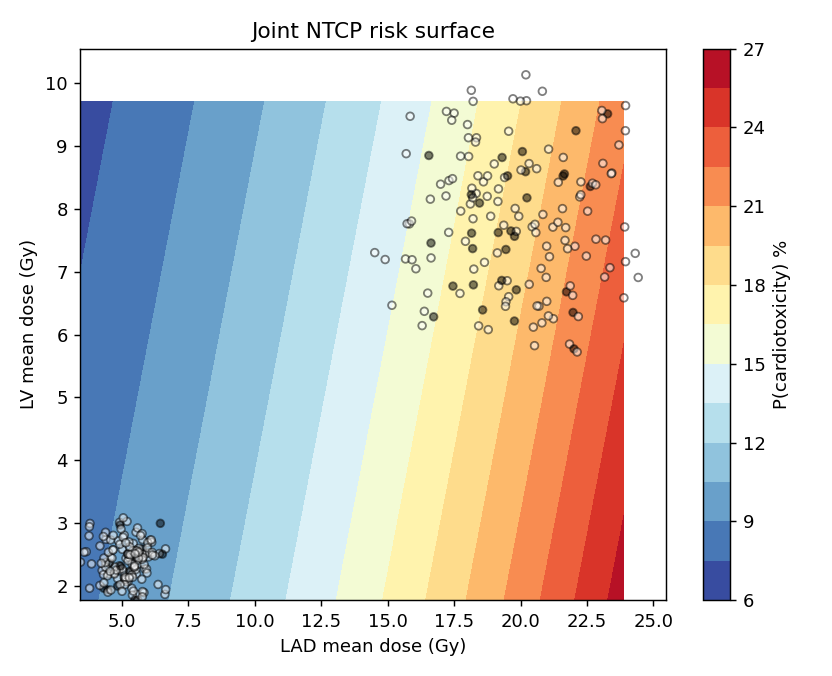
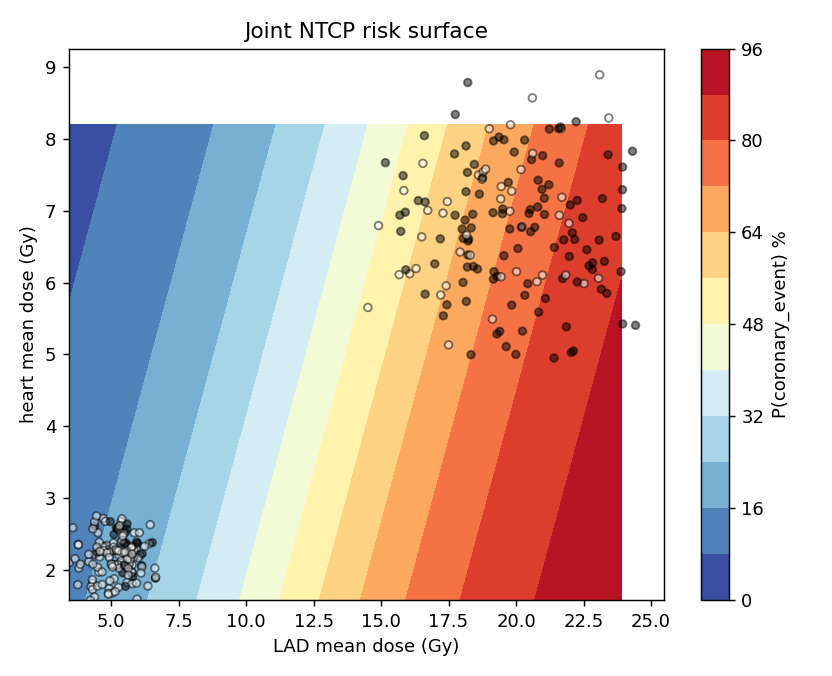
Add figure generation: causal-mediation, PLS VIP, and summary dashboard
- make_figures.py: builds causal_mediation_effects.png (NDE/NIE/TE decomposition
  + mediated-share vs Baron-Kenny), pls_vip.png (top VIP predictors colored by
  substructure), and summary_dashboard.png (one-page overview of all six analyses)
- joint NTCP results/surface regenerated for the coronary_event endpoint (the
  informative case: only LAD survives mutual adjustment)
- README: figures gallery and make_figures entry; survival CIF numbers aligned to
  the committed cohort (~54% vs ~28% at 10 y, C-index 0.62)

diff --git a/ml/make_figures.py b/ml/make_figures.py
@@ -1,0 +1,231 @@
+"""
+Build the figure set for the RT-cardiotoxicity analyses.
+
+Reads the saved result JSONs / CSVs in outputs/ and renders:
+
+  1. causal_mediation_effects.png  — NDE / NIE / TE decomposition with CIs
+  2. pls_vip.png                   — top PLS VIP predictors (substructure-colored)
+  3. summary_dashboard.png         — one-page overview of every analysis
+
+The per-analysis figures (NTCP curves, survival CIF, calibration, fPCA, PLS
+predicted-vs-actual, mediation path, joint NTCP surface) are produced by their own
+scripts; run those first (or `python run_all.py`) so the JSONs exist.
+
+Usage
+-----
+    python make_figures.py
+"""
+
+from __future__ import annotations
+
+import json
+import os
+
+import matplotlib
+
+matplotlib.use("Agg")
+import matplotlib.pyplot as plt
+import numpy as np
+import pandas as pd
+
+HERE = os.path.dirname(os.path.abspath(__file__))
+OUT_DIR = os.path.join(HERE, "outputs")
+
+BLUE, RED, GREEN, GREY = "#08519c", "#c0504d", "#2ca25f", "#888888"
+SUB_COLORS = {"heart": "#6baed6", "LV": "#fd8d3c", "LAD": "#e6550d",
+              "RCA": "#74c476", "LCX": "#9e9ac8"}
+
+
+def _load(name):
+    path = os.path.join(OUT_DIR, name)
+    if not os.path.exists(path):
+        return None
+    with open(path) as f:
+        return json.load(f)
+
+
+# --------------------------------------------------------------------------- #
+def fig_causal_mediation():
+    cm = _load("causal_mediation_results.json")
+    bk = _load("mediation_results.json")
+    if cm is None:
+        return
+    est, ci = cm["estimates"], cm["ci95"]
+    names = ["NDE\n(direct)", "NIE\n(indirect)", "TE\n(total)"]
+    keys = ["NDE", "NIE", "TE"]
+    vals = [est[k] for k in keys]
+    los = [est[k] - ci[k][0] for k in keys]
+    his = [ci[k][1] - est[k] for k in keys]
+    colors = [RED, GREEN, BLUE]
+
+    fig, axes = plt.subplots(1, 2, figsize=(11, 4.6), gridspec_kw={"width_ratios": [1.6, 1]})
+    ax = axes[0]
+    ax.bar(names, vals, yerr=[los, his], color=colors, capsize=5, alpha=0.9)
+    ax.axhline(0, color="k", lw=0.8)
+    for i, v in enumerate(vals):
+        ax.text(i, v + (his[i] + 0.05), f"{v:+.2f}", ha="center", fontsize=9)
+    ax.set_ylabel("Effect on LVEF decline (points)")
+    ax.set_title("Causal mediation of LV dose → LVEF decline\n(potential-outcomes natural effects, 95% CI)")
+
+    # proportion mediated: causal vs Baron-Kenny
+    ax2 = axes[1]
+    pm_c = est["proportion_mediated"] * 100
+    pm_c_ci = [c * 100 for c in ci["proportion_mediated"]]
+    bars = [("Causal\n(GLS)", pm_c, pm_c_ci, GREEN)]
+    if bk is not None:
+        pm_b = bk["estimates"]["proportion_mediated"] * 100
+        pm_b_ci = [c * 100 for c in bk["ci95"]["proportion_mediated"]]
+        bars.append(("Baron-Kenny\n(GLS+WSS)", pm_b, pm_b_ci, BLUE))
+    xs = range(len(bars))
+    ax2.bar([b[0] for b in bars], [b[1] for b in bars],
+            yerr=[[b[1] - b[2][0] for b in bars], [b[2][1] - b[1] for b in bars]],
+            color=[b[3] for b in bars], capsize=5, alpha=0.9)
+    for i, b in enumerate(bars):
+        ax2.text(i, b[1] + 3, f"{b[1]:.0f}%", ha="center", fontsize=10, fontweight="bold")
+    ax2.set_ylim(0, 100); ax2.set_ylabel("Proportion mediated (%)")
+    ax2.set_title("Mediated share")
+    fig.tight_layout()
+    fig.savefig(os.path.join(OUT_DIR, "causal_mediation_effects.png"), dpi=130)
+    plt.close(fig)
+
+
+# --------------------------------------------------------------------------- #
+def fig_pls_vip(top_n=15):
+    path = os.path.join(OUT_DIR, "vip_scores.csv")
+    if not os.path.exists(path):
+        return
+    vip = pd.read_csv(path).head(top_n).iloc[::-1]
+    def color(feat):
+        for s, c in SUB_COLORS.items():
+            if feat.startswith(f"{s}__"):
+                return c
+        return GREY
+    colors = [color(f) for f in vip["feature"]]
+    fig, ax = plt.subplots(figsize=(8, 6))
+    ax.barh(vip["feature"], vip["vip"], color=colors)
+    ax.axvline(1.0, color="k", ls="--", lw=1)
+    ax.text(1.02, 0.3, "VIP = 1", rotation=90, fontsize=8, color="k")
+    ax.set_xlabel("VIP score (>1 = influential)")
+    ax.set_title("PLS variable importance (top predictors)")
+    handles = [plt.Rectangle((0, 0), 1, 1, color=c) for c in SUB_COLORS.values()]
+    handles.append(plt.Rectangle((0, 0), 1, 1, color=GREY))
+    ax.legend(handles, [*SUB_COLORS.keys(), "clinical/baseline"], fontsize=7, loc="lower right")
+    fig.tight_layout()
+    fig.savefig(os.path.join(OUT_DIR, "pls_vip.png"), dpi=130)
+    plt.close(fig)
+
+
+# --------------------------------------------------------------------------- #
+def fig_dashboard():
+    pls = _load("metrics_pls.json")
+    med = _load("mediation_results.json")
+    cm = _load("causal_mediation_results.json")
+    ntcp = _load("ntcp_results.json")
+    surv = _load("survival_results.json")
+    ext = _load("external_validation_results.json")
+    joint = _load("joint_ntcp_results.json")
+
+    fig, axes = plt.subplots(2, 3, figsize=(16, 9))
+
+    # (1) PLS test R2 per target
+    ax = axes[0, 0]
+    if pls:
+        tg = list(pls["test"].keys())
+        r2 = [pls["test"][t]["r2"] for t in tg]
+        cols = [RED if t.startswith("lad") else BLUE for t in tg]
+        ax.barh([t.replace("_change", "").replace("_rel", "") for t in tg], r2, color=cols)
+        ax.set_xlabel("Held-out R²"); ax.set_xlim(0, max(0.5, max(r2) + 0.1))
+    ax.set_title("① PLS: early-marker prediction\n(blue=myocardial, red=coronary)", fontsize=10)
+
+    # (2) Mediation proportion
+    ax = axes[0, 1]
+    labels, vals, errs, cols = [], [], [], []
+    if med:
+        pm = med["estimates"]["proportion_mediated"] * 100
+        ci = [c * 100 for c in med["ci95"]["proportion_mediated"]]
+        labels.append("Baron-Kenny"); vals.append(pm); errs.append([pm - ci[0], ci[1] - pm]); cols.append(BLUE)
+    if cm:
+        pm = cm["estimates"]["proportion_mediated"] * 100
+        ci = [c * 100 for c in cm["ci95"]["proportion_mediated"]]
+        labels.append("Causal"); vals.append(pm); errs.append([pm - ci[0], ci[1] - pm]); cols.append(GREEN)
+    if vals:
+        errs = np.array(errs).T
+        ax.bar(labels, vals, yerr=errs, color=cols, capsize=5)
+        for i, v in enumerate(vals):
+            ax.text(i, v + 4, f"{v:.0f}%", ha="center", fontweight="bold")
+    ax.set_ylim(0, 100); ax.set_ylabel("% mediated")
+    ax.set_title("② Mediation: dose→marker→LVEF", fontsize=10)
+
+    # (3) NTCP D50 by structure/endpoint
+    ax = axes[0, 2]
+    if ntcp:
+        labs = [f"{r['structure']}→\n{r['endpoint'][:8]}" for r in ntcp]
+        d50 = [r["fit"]["D50"] for r in ntcp]
+        d50ci = [r["D50_ci"] for r in ntcp]
+        lo = [max(0, d - c[0]) for d, c in zip(d50, d50ci)]
+        hi = [max(0, c[1] - d) for d, c in zip(d50, d50ci)]
+        ax.bar(labs, d50, yerr=[lo, hi], color=BLUE, capsize=4)
+        ax.set_ylabel("D50 (Gy)"); ax.set_ylim(0, min(60, max(d50) * 1.5))
+    ax.set_title("③ NTCP dose-response (D50)", fontsize=10)
+
+    # (4) Survival CIF 10y high vs low LV dose
+    ax = axes[1, 0]
+    if surv:
+        hi_v = surv["cif10y_high_lv"] * 100
+        lo_v = surv["cif10y_low_lv"] * 100
+        ax.bar(["LV dose\n≥ median", "LV dose\n< median"], [hi_v, lo_v], color=[RED, BLUE])
+        for i, v in enumerate([hi_v, lo_v]):
+            ax.text(i, v + 1.5, f"{v:.0f}%", ha="center", fontweight="bold")
+        ax.set_ylabel("10-y cardiac incidence (%)")
+        ax.text(0.5, 0.92, f"C-index = {surv['c_index']:.2f}", transform=ax.transAxes,
+                ha="center", fontsize=9, color=GREY)
+    ax.set_title("④ Competing-risks survival (CIF)", fontsize=10)
+
+    # (5) External validation: AUC + calibration slope
+    ax = axes[1, 1]
+    if ext:
+        stages = [("dev", "development"), ("ext", "external"), ("recal", "external_recalibrated")]
+        keys = ["development", "external", "external_recalibrated"]
+        auc = [ext[k]["roc_auc"] for k in keys]
+        slope = [ext[k]["calib_slope"] for k in keys]
+        x = np.arange(3); w = 0.38
+        ax.bar(x - w / 2, auc, w, label="ROC-AUC", color=BLUE)
+        ax.bar(x + w / 2, slope, w, label="calib. slope", color=RED)
+        ax.axhline(1.0, color="k", ls=":", lw=1)
+        ax.set_xticks(x); ax.set_xticklabels(["dev", "external", "ext+recal"], fontsize=8)
+        ax.legend(fontsize=7); ax.set_ylim(0, 2.0)
+    ax.set_title("⑤ External validation\n(calib. slope ideal=1)", fontsize=10)
+
+    # (6) Joint NTCP coronary: adjusted vs single OR
+    ax = axes[1, 2]
+    if joint:
+        ors = joint["odds_ratios"]
+        labs = [o["structure"] for o in ors]
+        adj = [o["adjusted_or_per_gy"] for o in ors]
+        single = [o["single_or_per_gy"] for o in ors]
+        x = np.arange(len(labs)); w = 0.38
+        ax.bar(x - w / 2, single, w, label="single-structure", color=GREY)
+        ax.bar(x + w / 2, adj, w, label="mutually adjusted", color=RED)
+        ax.axhline(1.0, color="k", ls=":", lw=1)
+        ax.set_xticks(x); ax.set_xticklabels(labs)
+        ax.set_ylabel("OR per Gy"); ax.legend(fontsize=7)
+        ax.set_title(f"⑥ Joint NTCP: {joint['endpoint']}\n(only LAD survives adjustment)", fontsize=10)
+
+    fig.suptitle("RT cardiotoxicity — analysis summary (synthetic cohort, N=300)",
+                 fontsize=14, fontweight="bold")
+    fig.tight_layout(rect=[0, 0, 1, 0.97])
+    fig.savefig(os.path.join(OUT_DIR, "summary_dashboard.png"), dpi=130)
+    plt.close(fig)
+
+
+def main():
+    os.makedirs(OUT_DIR, exist_ok=True)
+    fig_causal_mediation()
+    fig_pls_vip()
+    fig_dashboard()
+    print("Wrote figures to outputs/:")
+    print("  causal_mediation_effects.png, pls_vip.png, summary_dashboard.png")
+
+
+if __name__ == "__main__":
+    main()

diff --git a/ml/README.md b/ml/README.md
@@ -54,6 +54,7 @@ the late LVEF endpoint are excluded to avoid leakage.
 | `fpca_dvh.py` | **Functional DVH (fPCA)** — reduce whole DVH curves to a few shape modes and compare them to scalar Vx features as predictors. |
 | `train.py` | Secondary. Binary classifier for the *late* CTRCD endpoint (weaker at this N, by design). |
 | `predict.py` | Score new patients (auto-detects the saved model) from a feature CSV or a raw dose dict. |
+| `make_figures.py` | Build the causal-mediation, PLS-VIP, and one-page **summary dashboard** figures from the saved results. |
 | `requirements.txt` | Dependencies (PLS ships with scikit-learn — no extra deps). |
 
 ## Quick start
@@ -120,8 +121,8 @@ python joint_ntcp.py --endpoint coronary_event   # mutually-adjusted substructur
 The cohort also carries competing-risks survival outcomes (`event_time`,
 `event_type` 0=censored/1=cardiac/2=non-cardiac death, `cardiac_event`). Headline
 demo findings:
-- **Survival**: 10-y cardiac-event incidence ≈ 63% (high LV dose) vs ≈ 33% (low),
-  with the competing death handled by the Aalen-Johansen estimator.
+- **Survival**: 10-y cardiac-event incidence ≈ 54% (high LV dose) vs ≈ 28% (low,
+  C-index 0.62), with the competing death handled by the Aalen-Johansen estimator.
 - **External validation**: ROC-AUC travels (0.99→0.82) but calibration breaks
   (slope 0.28); logistic recalibration restores it (slope ≈ 1.0).
 - **Joint NTCP**: for coronary injury, only **LAD** dose stays significant after
@@ -135,6 +136,26 @@ median / std dose, integral dose, V5–V40 Gy, D2/D5/D10/D50/D95/D98 %.
 
 **Clinical & baseline:** age, laterality, anthracycline / trastuzumab, hypertension,
 diabetes, smoking, baseline LVEF, and each marker's baseline value.
+
+## Figures
+
+After running the analyses, build the figure set:
+
+```bash
+python make_figures.py      # causal_mediation_effects, pls_vip, summary_dashboard
+```
+
+`outputs/` then contains, per analysis:
+
+| Figure | From |
+|--------|------|
+| `summary_dashboard.png` | one-page overview of all six analyses |
+| `pls_pred_vs_actual.png`, `pls_vip.png` | PLS regression |
+| `mediation_path.png`, `causal_mediation_effects.png` | mediation |
+| `ntcp_curves.png`, `joint_ntcp_surface.png` | NTCP / joint NTCP |
+| `survival_cif.png` | competing-risks survival |
+| `external_calibration.png` | external validation |
+| `fpca_dvh.png` | functional DVH |
 
 ## Using your own data
 
